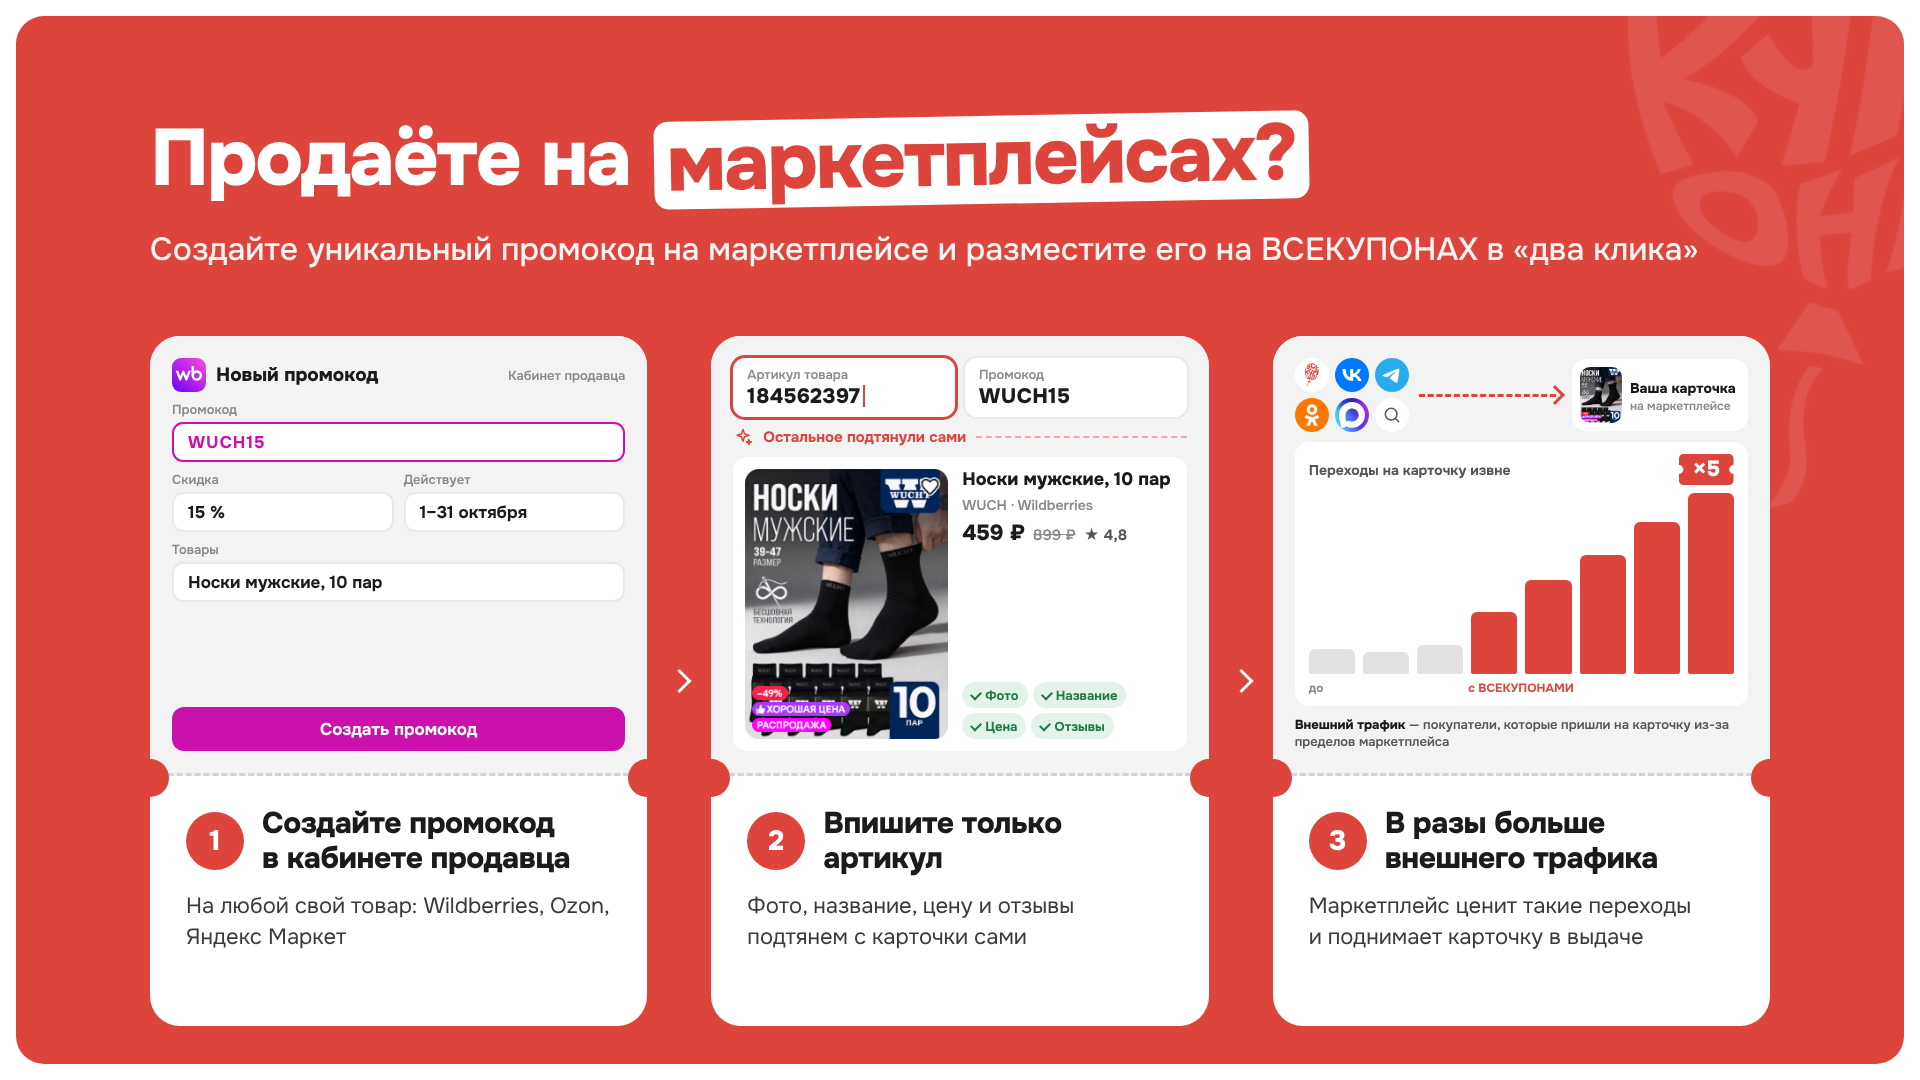
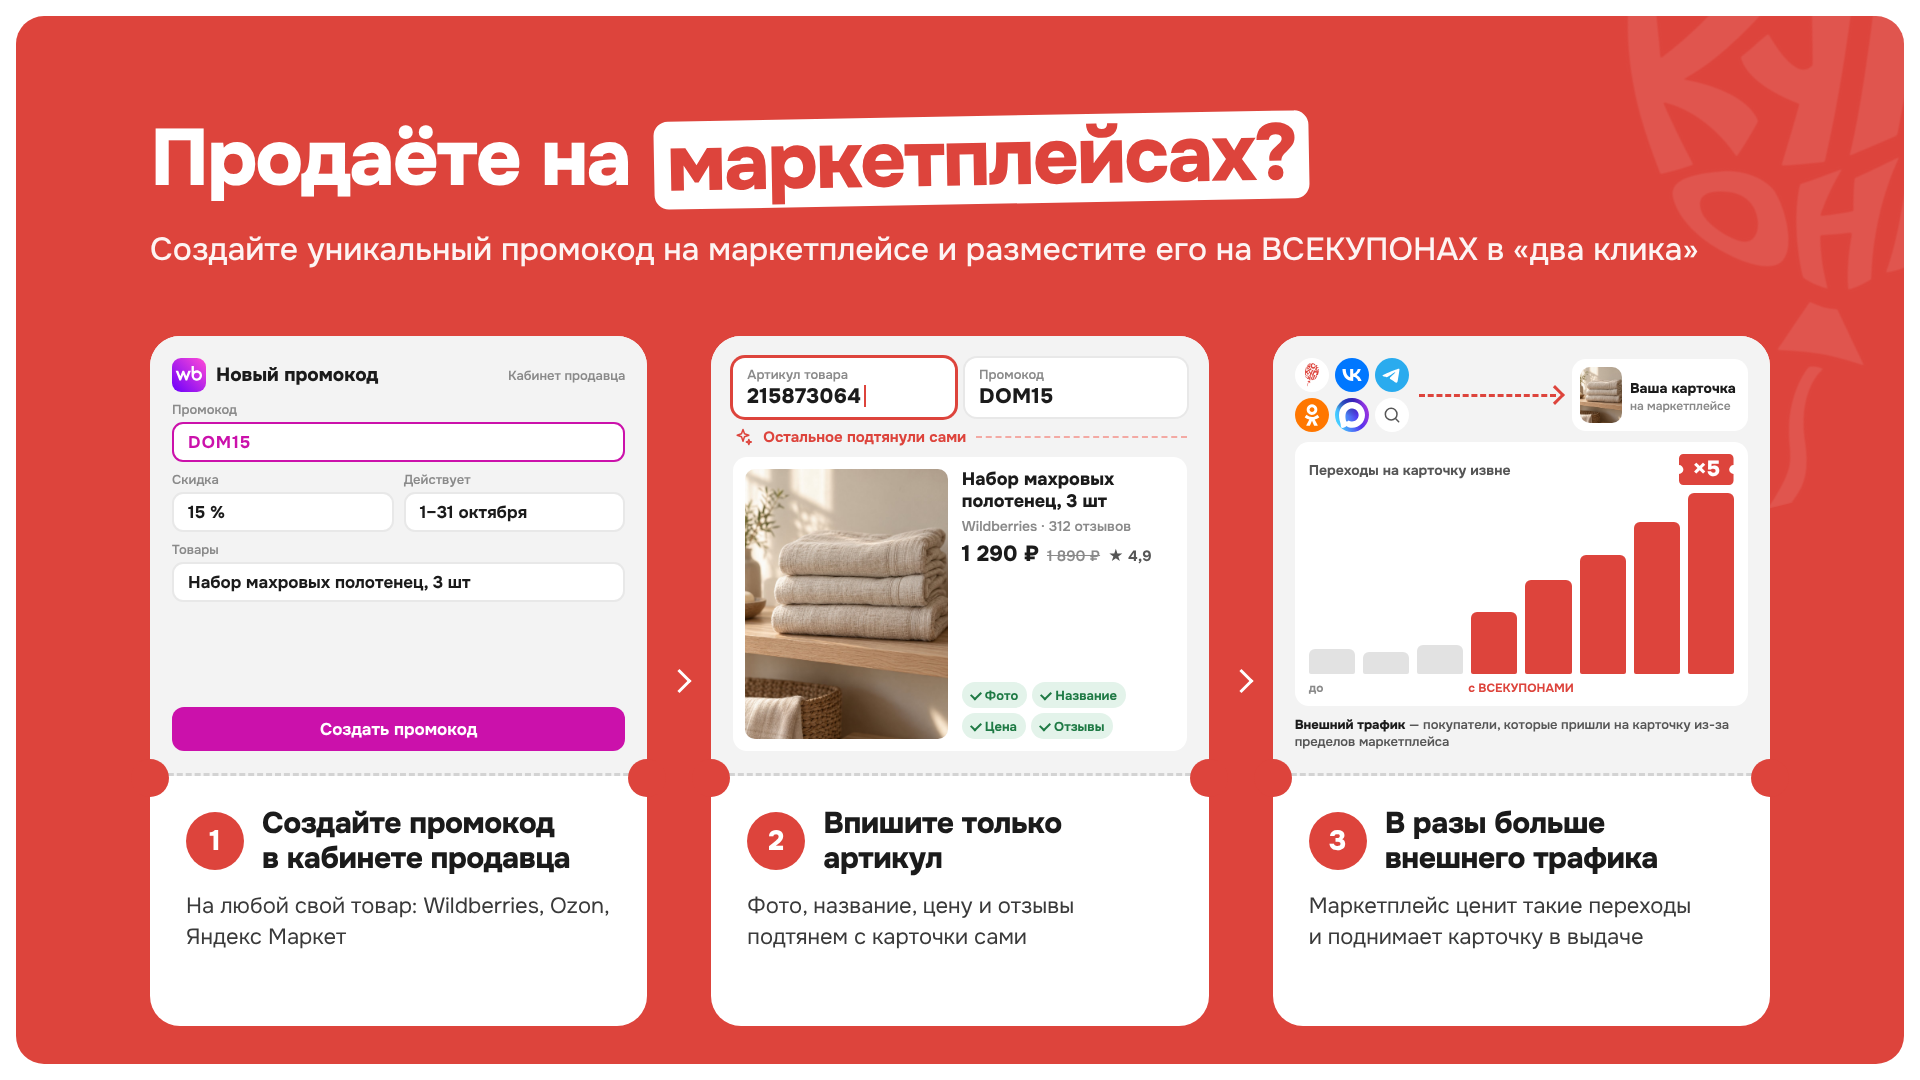
Презентация v3, «Продаёте на маркетплейсах?»: вместо носков — набор полотенец
Claude-Session: https://claude.ai/code/session_016TTUbKi4K5ZASpfJrwsQiN

diff --git a/social-kit/deck-v3.html b/social-kit/deck-v3.html
@@ -833,7 +833,7 @@ a{color:inherit;text-decoration:none}
 .art__go svg{width:20px;height:20px}
 .art__go::after{content:"";flex:1;border-top:2px dashed #F3A9A3}
 .art__c{flex:1;display:flex;gap:14px;padding:12px;min-height:0}
-.art__c .thumb{height:100%;aspect-ratio:230 / 306;background-size:contain}
+.art__c .thumb{height:100%;aspect-ratio:3 / 4;background-size:cover;background-position:50% 40%}
 .art__b{flex:1;min-width:0;display:flex;flex-direction:column;gap:5px}
 .art__t{font-size:18px;font-weight:800;line-height:1.2}
 .art__s{font-size:14px;font-weight:600;color:var(--ink-3)}
@@ -857,7 +857,7 @@ a{color:inherit;text-decoration:none}
 .ext__ar::before{content:"";flex:1;border-top:3px dashed var(--brand)}
 .ext__ar::after{content:"";width:11px;height:11px;margin-left:-8px;border-top:3px solid var(--brand);border-right:3px solid var(--brand);transform:rotate(45deg)}
 .ext__card{flex:none;width:176px;display:flex;align-items:center;gap:8px;padding:8px}
-.ext__card .thumb{width:42px;height:56px;background-position:center top}
+.ext__card .thumb{width:42px;height:56px;background-position:50% 40%}
 .ext__card b{white-space:nowrap;font-size:14px;font-weight:800;line-height:1.2}
 .ext__card small{display:block;font-size:12px;font-weight:600;color:var(--ink-3)}
 .ext__ch{flex:1;display:flex;flex-direction:column;padding:12px 14px 10px;min-height:0}
@@ -1094,9 +1094,9 @@ a{color:inherit;text-decoration:none}
       <div class="step">
         <div class="step__shot" data-mpshot="photos/mp/promo-cabinet.png"><div class="mpf">
           <div class="mpf__h"><img src="../assets/brand/mp/wildberries.svg" alt="">Новый промокод<em>Кабинет продавца</em></div>
-          <div class="mpf__r"><span>Промокод</span><div class="is-code">WUCH15</div></div>
+          <div class="mpf__r"><span>Промокод</span><div class="is-code">DOM15</div></div>
           <div class="mpf__2"><div class="mpf__r"><span>Скидка</span><div>15&nbsp;%</div></div><div class="mpf__r"><span>Действует</span><div>1–31 октября</div></div></div>
-          <div class="mpf__r"><span>Товары</span><div>Носки мужские, 10&nbsp;пар</div></div>
+          <div class="mpf__r"><span>Товары</span><div>Набор махровых полотенец, 3&nbsp;шт</div></div>
           <div class="mpf__btn">Создать промокод</div>
         </div></div>
         <i class="step__cut step__cut--l"></i><i class="step__cut step__cut--r"></i>
@@ -1105,10 +1105,10 @@ a{color:inherit;text-decoration:none}
       </div>
       <div class="step">
         <div class="step__shot"><div class="art">
-          <div class="art__in"><div class="is-on"><span>Артикул товара</span><b>184562397<i></i></b></div><div><span>Промокод</span><b>WUCH15</b></div></div>
+          <div class="art__in"><div class="is-on"><span>Артикул товара</span><b>215873064<i></i></b></div><div><span>Промокод</span><b>DOM15</b></div></div>
           <div class="art__go"><svg data-i="spark"></svg>Остальное подтянули сами</div>
-          <div class="box art__c"><span class="thumb" style="background-image:url('../assets/coupons/wuch-socks.png')"></span>
-            <div class="art__b"><div class="art__t">Носки мужские, 10&nbsp;пар</div><div class="art__s">WUCH · Wildberries</div><div class="art__p">459&nbsp;₽ <s>899&nbsp;₽</s><em>★ 4,8</em></div>
+          <div class="box art__c"><span class="thumb" style="background-image:url('../assets/coupons/dom-beige.jpg')"></span>
+            <div class="art__b"><div class="art__t">Набор махровых полотенец, 3&nbsp;шт</div><div class="art__s">Wildberries · 312 отзывов</div><div class="art__p">1&nbsp;290&nbsp;₽ <s>1&nbsp;890&nbsp;₽</s><em>★ 4,9</em></div>
               <div class="art__ok"><span>Фото</span><span>Название</span><span>Цена</span><span>Отзывы</span></div></div></div>
         </div></div>
         <i class="step__cut step__cut--l"></i><i class="step__cut step__cut--r"></i>
@@ -1120,7 +1120,7 @@ a{color:inherit;text-decoration:none}
           <div class="ext__top">
             <div class="ext__src"><div><img class="is-logo" src="../assets/brand/logo-red.png" alt=""><i data-soc-ic="vk"></i><i data-soc-ic="tg"></i></div><div><i data-soc-ic="ok"></i><i data-soc-ic="max"></i><i><svg data-i="search"></svg></i></div></div>
             <div class="ext__ar"></div>
-            <div class="box ext__card"><span class="thumb" style="background-image:url('../assets/coupons/wuch-socks.png')"></span><div><b>Ваша карточка</b><small>на&nbsp;маркетплейсе</small></div></div>
+            <div class="box ext__card"><span class="thumb" style="background-image:url('../assets/coupons/dom-beige.jpg')"></span><div><b>Ваша карточка</b><small>на&nbsp;маркетплейсе</small></div></div>
           </div>
           <div class="box ext__ch">
             <div class="ext__k">Переходы на&nbsp;карточку извне<span class="tk">×5</span></div>
